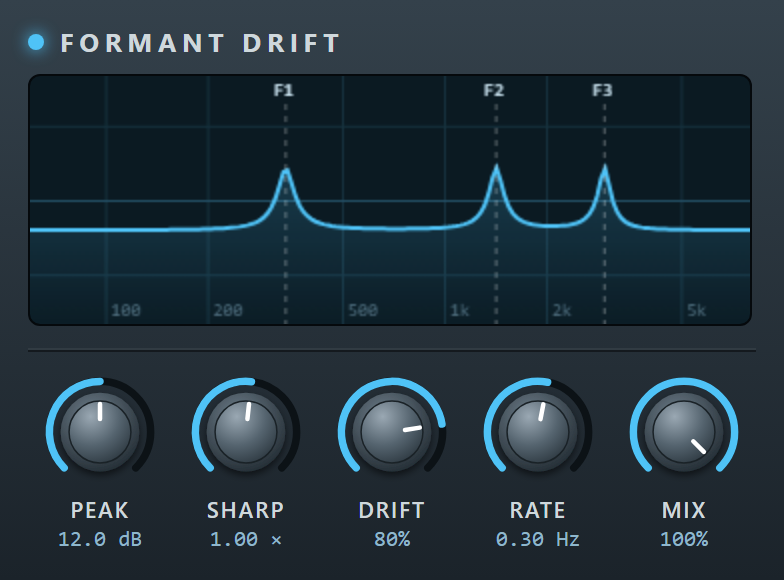
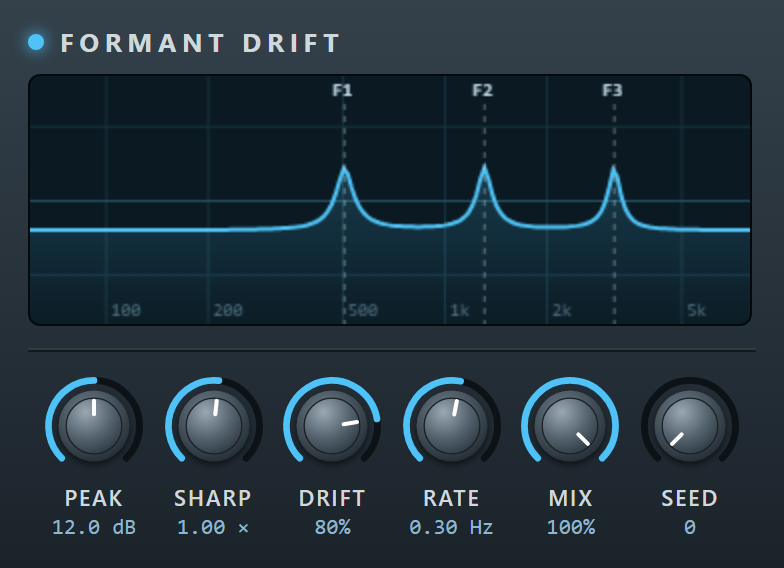
feat: ゆらぎの乱数にシードを付けて、同じ値なら同じ動きになるようにする

diff --git a/src/index.js b/src/index.js
@@ -3,7 +3,7 @@ import { WebAudioModule } from '@webaudiomodules/sdk'
 import { CompositeAudioNode, ParamMgrFactory } from '@webaudiomodules/sdk-parammgr'
 import descriptor from '../descriptor.json'
 import { createGui } from './gui.js'
-import { BANDS, PARAMS, driftCents, paramById, parameterInfo, trimDb } from './params.js'
+import { BANDS, PARAMS, driftCents, paramById, parameterInfo, seededPoints, trimDb } from './params.js'
 
 // -1〜1 の値を 1 秒に 1 つランダムに選び、間をなめらかにつないだ波形を作る。端をそろえてあるのでループしても切れ目がない。
 // 再生の速さ（playbackRate）がそのまま「1 秒に何回目標を変えるか」になる
@@ -58,19 +58,33 @@ class FormantDriftNode extends CompositeAudioNode {
     this.dry.connect(this.out)
 
     // 山ごとのゆらぎ。ループする乱数の波形を、周波数のずれ（detune、セント）に直接つなぐ（タイマーを使わないので、書き出しのような非リアルタイムの処理でも同じに動く）
-    this.points = BANDS.map(() => Array.from({ length: DRIFT_SECONDS }, () => Math.random() * 2 - 1))
-    this.sources = this.filters.map((filter, index) => {
-      const source = new AudioBufferSourceNode(context, { buffer: driftBuffer(this.points[index]), loop: true, playbackRate: this.values.rate })
+    this.amounts = this.filters.map((filter) => {
       const amount = new GainNode(context, { gain: 0 })
-      source.connect(amount).connect(filter.detune)
-      source.start()
-      return { source, amount }
+      amount.connect(filter.detune)
+      return amount
     })
+    this.sources = []
+    this.startSources(this.values.seed, 0)
     this.filters.forEach((filter, index) => {
       if (index > 0) this.filters[index - 1].connect(filter)
     })
     this.filters[this.filters.length - 1].connect(this.wet).connect(this.out)
     this._output = this.out
+  }
+
+  // シードに合わせた乱数の波形で、ゆらぎの音源を作り直す。offset（秒）から始めて、動いている位置を保つ
+  startSources(seed, offset) {
+    this.sources.forEach((source) => {
+      source.stop()
+      source.disconnect()
+    })
+    this.points = BANDS.map((_, index) => seededPoints(seed, index, DRIFT_SECONDS))
+    this.sources = this.points.map((points, index) => {
+      const source = new AudioBufferSourceNode(this.audio, { buffer: driftBuffer(points), loop: true, playbackRate: this.values.rate })
+      source.connect(this.amounts[index])
+      source.start(0, offset)
+      return source
+    })
   }
 
   // つまみごとの音への反映のしかた
@@ -84,10 +98,14 @@ class FormantDriftNode extends CompositeAudioNode {
         this.filters.forEach((filter, index) => { filter.Q.value = BANDS[index].q * value })
         break
       case 'depth':
-        this.sources.forEach(({ amount }, index) => { amount.gain.value = driftCents(BANDS[index], value) })
+        this.amounts.forEach((amount, index) => { amount.gain.value = driftCents(BANDS[index], value) })
         break
       case 'rate':
-        this.sources.forEach(({ source }) => { source.playbackRate.value = value })
+        this.sources.forEach((source) => { source.playbackRate.value = value })
+        break
+      case 'seed':
+        // 動いている位置（秒）はそのままで、乱数だけ入れ替える
+        this.startSources(value, ((this.phaseAt(this.audio.currentTime) % DRIFT_SECONDS) + DRIFT_SECONDS) % DRIFT_SECONDS)
         break
       case 'mix':
         this.dry.gain.value = 1 - value * 0.6
@@ -101,7 +119,8 @@ class FormantDriftNode extends CompositeAudioNode {
   setValue(id, raw) {
     const param = paramById[id]
     if (!param || !Number.isFinite(raw)) return
-    const value = Math.min(param.max, Math.max(param.min, raw))
+    const stepped = param.step ? Math.round(raw / param.step) * param.step : raw
+    const value = Math.min(param.max, Math.max(param.min, stepped))
     // rate は、変える前の速さで位置を進めてから新しい速さにする
     if (id === 'rate') {
       this.phase0 = this.phaseAt(this.audio.currentTime)
@@ -169,7 +188,7 @@ class FormantDriftNode extends CompositeAudioNode {
   }
 
   destroy() {
-    this.sources.forEach(({ source }) => source.stop())
+    this.sources.forEach((source) => source.stop())
     return super.destroy()
   }
 }

diff --git a/src/gui.js b/src/gui.js
@@ -20,7 +20,7 @@ const svg = (tag, attrs) => {
 // つまみの位置（0〜1）と値の変換
 const toValue = (param, t) => (param.log ? param.min * (param.max / param.min) ** t : param.min + (param.max - param.min) * t)
 const toPosition = (param, value) => (param.log ? Math.log(value / param.min) / Math.log(param.max / param.min) : (value - param.min) / (param.max - param.min))
-const format = (param, value) => (param.percent ? `${Math.round(value * 100)}%` : `${value.toFixed(param.digits)} ${param.unit}`)
+const format = (param, value) => (param.percent ? `${Math.round(value * 100)}%` : `${value.toFixed(param.digits)} ${param.unit}`.trim())
 
 // 角度（上が 0 度）の円周上の点
 const point = (radius, degrees) => {
@@ -34,8 +34,8 @@ const arc = (radius, from, to) => {
 }
 
 function createKnob(param, node, id) {
-  const wrap = el('div', 'display:grid;justify-items:center;gap:2px;width:64px;user-select:none')
-  const view = svg('svg', { viewBox: '0 0 64 64', width: 60, height: 60, tabindex: 0, role: 'slider', 'aria-label': param.label })
+  const wrap = el('div', 'display:grid;justify-items:center;gap:2px;width:58px;user-select:none')
+  const view = svg('svg', { viewBox: '0 0 64 64', width: 54, height: 54, tabindex: 0, role: 'slider', 'aria-label': param.label })
   view.style.cssText = 'cursor:ns-resize;touch-action:none;outline:none'
   view.innerHTML = `
     <defs>
@@ -65,8 +65,11 @@ function createKnob(param, node, id) {
     readout.textContent = format(param, value)
     view.setAttribute('aria-valuenow', String(value))
   }
+  // 整数のつまみは、1 つぶんの位置の幅
+  const unit = param.step ? param.step / (param.max - param.min) : 0
   const set = (t) => {
-    const value = toValue(param, Math.min(1, Math.max(0, t)))
+    const raw = toValue(param, Math.min(1, Math.max(0, t)))
+    const value = param.step ? Math.round(raw / param.step) * param.step : raw
     draw(value)
     node.setParameterValues({ [param.id]: { id: param.id, value, normalized: false } })
   }
@@ -81,7 +84,7 @@ function createKnob(param, node, id) {
     view.focus()
   })
   view.addEventListener('pointermove', (event) => {
-    if (dragging) set(startT + (startY - event.clientY) / (event.shiftKey ? 600 : 160))
+    if (dragging) set(startT + (startY - event.clientY) / (param.step ? 300 : event.shiftKey ? 600 : 160))
   })
   const stop = () => { dragging = false }
   view.addEventListener('pointerup', stop)
@@ -89,13 +92,13 @@ function createKnob(param, node, id) {
   view.addEventListener('dblclick', () => set(toPosition(param, param.def)))
   view.addEventListener('wheel', (event) => {
     event.preventDefault()
-    set(toPosition(param, shown) - event.deltaY / 1500)
+    set(toPosition(param, shown) - Math.sign(event.deltaY) * (unit || Math.abs(event.deltaY) / 1500))
   }, { passive: false })
   view.addEventListener('keydown', (event) => {
-    const step = { ArrowUp: 0.02, ArrowRight: 0.02, ArrowDown: -0.02, ArrowLeft: -0.02 }[event.key]
-    if (step === undefined) return
+    const sign = { ArrowUp: 1, ArrowRight: 1, ArrowDown: -1, ArrowLeft: -1 }[event.key]
+    if (sign === undefined) return
     event.preventDefault()
-    set(toPosition(param, shown) + step)
+    set(toPosition(param, shown) + sign * (unit || 0.02))
   })
 
   // ホストのオートメーションなど、画面の外で値が変わったときに追う

diff --git a/src/params.js b/src/params.js
@@ -14,12 +14,33 @@ export const PARAMS = [
   { id: 'depth', label: 'Drift', min: 0, max: 1, def: 0.8, percent: true },
   { id: 'rate', label: 'Rate', min: 0.02, max: 3, def: 0.3, unit: 'Hz', digits: 2, log: true },
   { id: 'mix', label: 'Mix', min: 0, max: 1, def: 1, percent: true },
+  // step: 整数のつまみ。ゆらぎの乱数の種で、同じ値なら毎回同じ動きになる
+  { id: 'seed', label: 'Seed', min: 0, max: 99, def: 0, digits: 0, unit: '', step: 1 },
 ]
 
 export const paramById = Object.fromEntries(PARAMS.map((param) => [param.id, param]))
 
 // 山の高さに応じて出力を下げる量（dB）。山が増えると音量が上がるので補う
 export const trimDb = (peak) => -0.65 * peak
+
+// シード付きの乱数（mulberry32）。0 以上 1 未満の値を返す関数を作る
+function mulberry32(seed) {
+  let a = seed >>> 0
+  return () => {
+    a = (a + 0x6d2b79f5) >>> 0
+    let t = a
+    t = Math.imul(t ^ (t >>> 15), t | 1)
+    t ^= t + Math.imul(t ^ (t >>> 7), t | 61)
+    return ((t ^ (t >>> 14)) >>> 0) / 4294967296
+  }
+}
+
+// 山ごと（band の番号）のゆらぎの元になる乱数の点（-1〜1）。seed と山の番号が同じなら、いつも同じ値になる
+export function seededPoints(seed, band, length) {
+  const random = mulberry32(Math.imul(Math.round(seed) + 1, 0x9e3779b1) ^ Math.imul(band + 1, 0x85ebca6b))
+  random() // 最初の値は種との相関が強いので捨てる
+  return Array.from({ length }, () => random() * 2 - 1)
+}
 
 // depth 1 で、山が動ける範囲（対数）の端から端まで動くセント数の半分
 export const driftCents = (band, depth) => depth * 600 * Math.log2(band.max / band.min)
@@ -28,15 +49,15 @@ export const driftCents = (band, depth) => depth * 600 * Math.log2(band.max / ba
 export const parameterInfo = (param) => ({
   id: param.id,
   label: param.label,
-  type: 'float',
+  type: param.step ? 'int' : 'float',
   defaultValue: param.def,
   minValue: param.min,
   maxValue: param.max,
-  discreteStep: 0,
+  discreteStep: param.step ?? 0,
   exponent: 0,
   choices: [],
   units: param.percent ? '%' : param.unit ?? '',
   normalize: (value) => (value - param.min) / (param.max - param.min),
   denormalize: (position) => param.min + position * (param.max - param.min),
-  valueString: (value) => (param.percent ? `${Math.round(value * 100)}%` : `${value.toFixed(param.digits)} ${param.unit}`),
+  valueString: (value) => (param.percent ? `${Math.round(value * 100)}%` : `${value.toFixed(param.digits)} ${param.unit}`.trim()),
 })

diff --git a/test/seed.js b/test/seed.js
@@ -1,0 +1,29 @@
+// 同じシードなら同じ音、違うシードなら違う音になることを確かめるページ。
+import { initializeWamHost } from '@webaudiomodules/sdk'
+import FormantDrift from '../dist/index.js'
+
+async function render(seed) {
+  const sampleRate = 44100
+  const context = new OfflineAudioContext(1, sampleRate * 4, sampleRate)
+  const [hostGroupId] = await initializeWamHost(context)
+  const wam = await FormantDrift.createInstance(hostGroupId, context)
+  await wam.audioNode.setParameterValues({
+    seed: { id: 'seed', value: seed, normalized: false },
+    rate: { id: 'rate', value: 1, normalized: false },
+  })
+  const source = new OscillatorNode(context, { type: 'sawtooth', frequency: 130 })
+  source.connect(wam.audioNode)
+  wam.audioNode.connect(context.destination)
+  source.start()
+  return (await context.startRendering()).getChannelData(0)
+}
+
+const diff = (a, b) => a.reduce((max, value, i) => Math.max(max, Math.abs(value - b[i])), 0)
+
+window.__run = async () => {
+  const a1 = await render(7)
+  const a2 = await render(7)
+  const b = await render(8)
+  return JSON.stringify({ same: diff(a1, a2), other: diff(a1, b) })
+}
+document.title = 'ready'

diff --git a/index.html b/index.html
@@ -27,11 +27,13 @@ Sharp  0.3 - 3      Sharpness of the peaks (multiplier of Q)
 Drift  0 - 1        How far the peaks wander (1 = the whole range)
 Rate   0.02 - 3 Hz  How often a new target is chosen
 Mix    0 - 1        Amount of the effect
+Seed   0 - 99       Seed of the random drift. The same seed always gives the same movement
 </pre>
 
 		<h2>How it works</h2>
 		Three peaking filters sit in the ranges of the vowel formants (F1 280-900 Hz, F2 800-2700 Hz, F3 2300-3600 Hz).<br />
-		A looping random waveform moves each filter's frequency smoothly, on the audio thread, so it also works in offline rendering.
+		A looping random waveform moves each filter's frequency smoothly, on the audio thread, so it also works in offline rendering.<br />
+		The randomness is seeded, so the same Seed gives the same drift every time (counted from when the plugin is created).
 
 		<h2>Info</h2>
 <pre>

diff --git a/README.md b/README.md
@@ -14,6 +14,7 @@
 | Drift | 0〜1 | 山の揺れる幅。1 で動ける範囲いっぱいまで動く |
 | Rate | 0.02〜3 Hz | 目標を決め直す速さ |
 | Mix | 0〜1 | 効果音の割合 |
+| Seed | 0〜99 | ゆらぎの乱数の種。同じ値なら、毎回まったく同じ動きになる（書き出しも再現できる） |
 
 ## しくみ
 母音のフォルマント（F1 280〜900 Hz、F2 800〜2700 Hz、F3 2300〜3600 Hz）の範囲に、3 つのピーキングフィルターを直列に置く。`Rate` に合わせて、山ごとに新しい目標の周波数をランダムに選び、`setTargetAtTime` で滑らかに近づける。山を足すと音量が上がるので、`Peak` に応じて出力を下げている。
